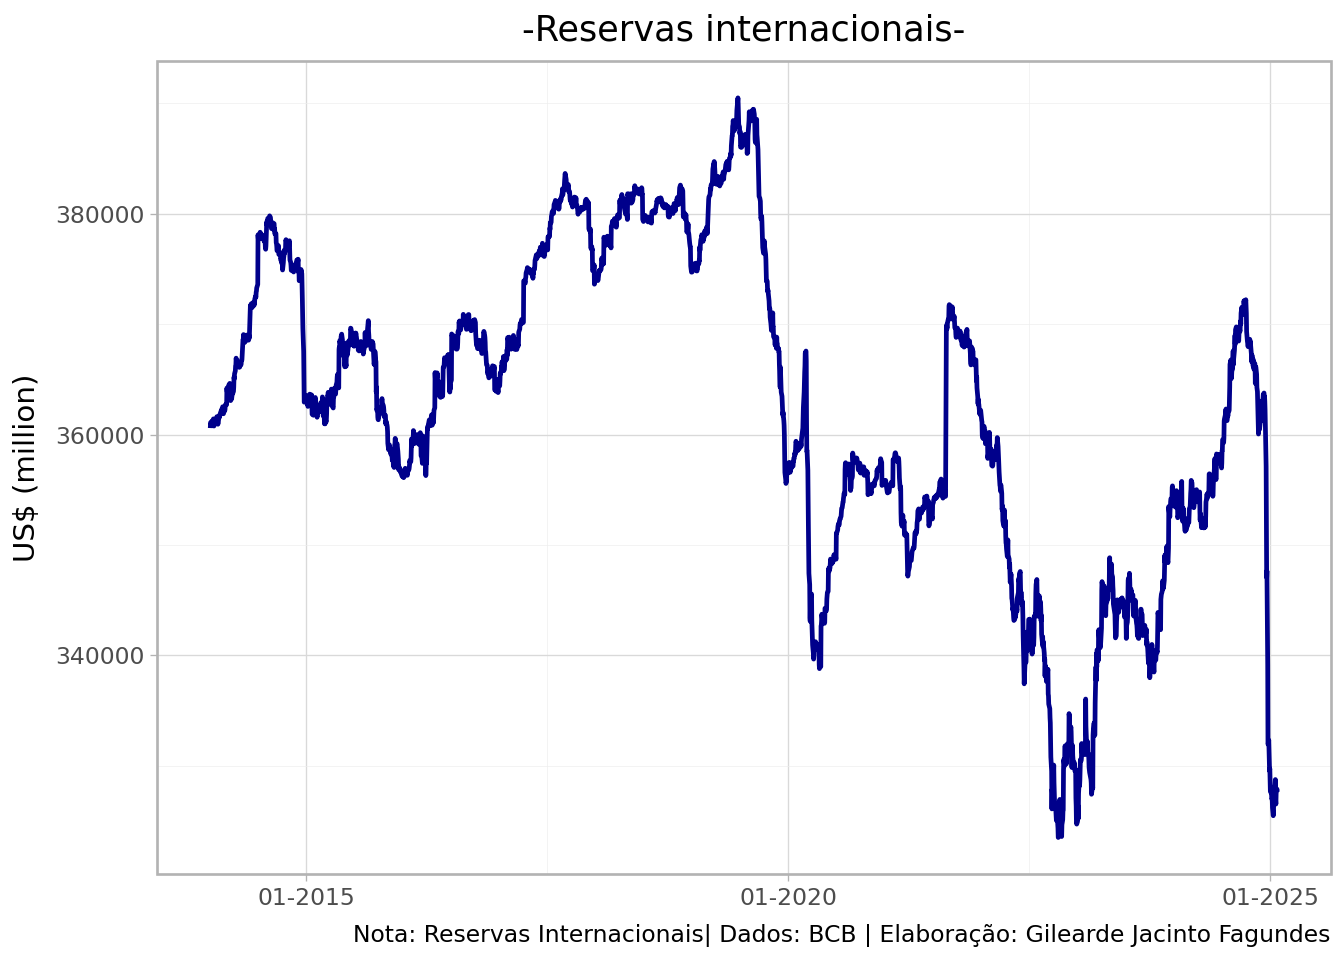
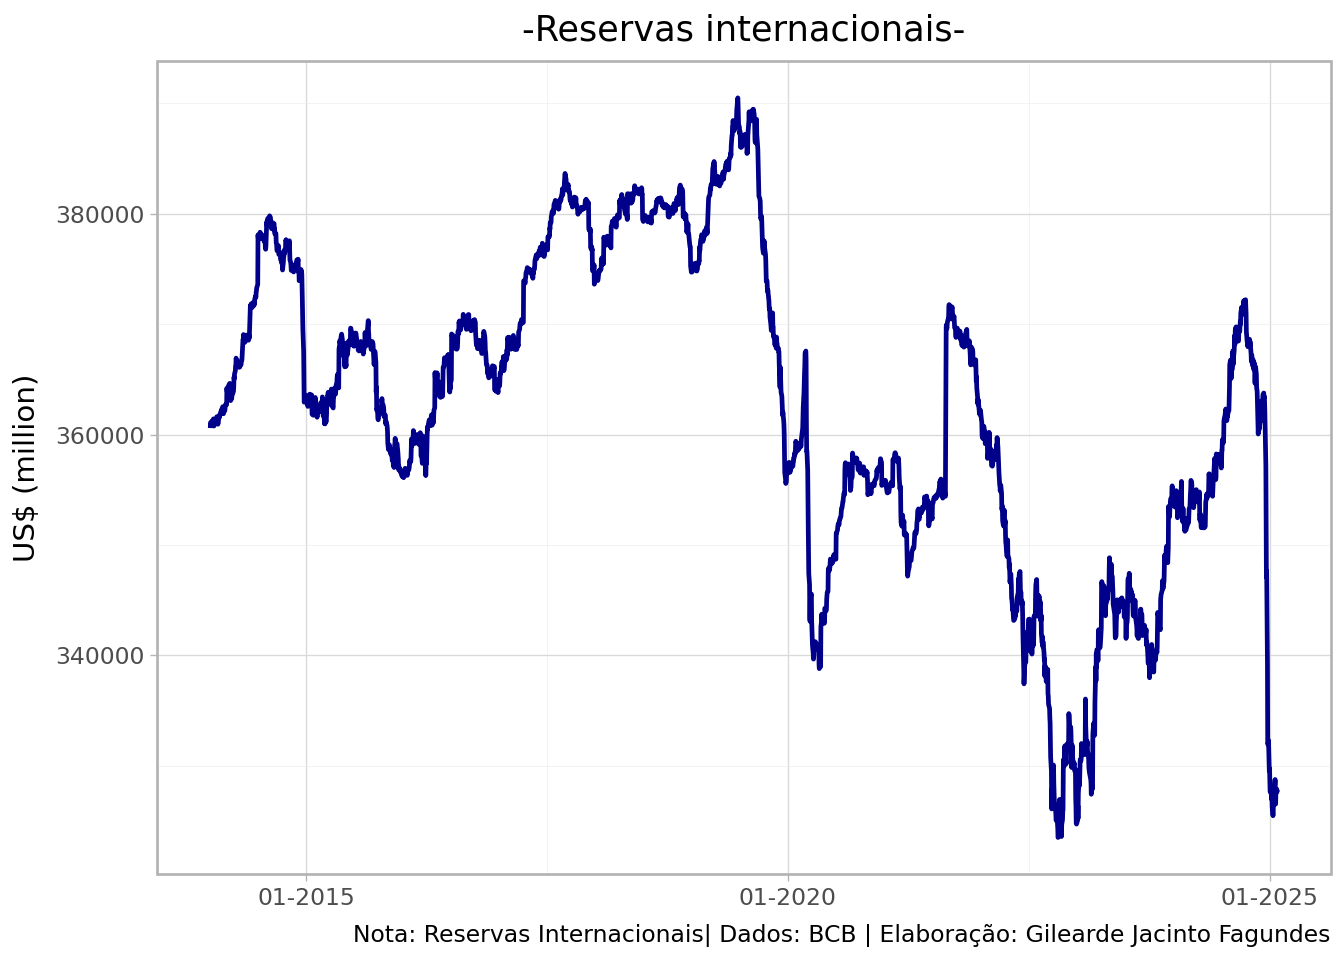
Atualização de relatorio e dashboard

diff --git a/relatorio/relatorio.html b/relatorio/relatorio.html
@@ -107,14 +107,14 @@ pre > code.sourceCode > span > a:first-child::before { text-decoration: underlin
 
 
 <p>Dados coletados da API do Banco Central do Brasil.</p>
-<div id="165f3ddc" class="cell" data-execution_count="1">
+<div id="793dce3b" class="cell" data-execution_count="1">
 <div class="sourceCode cell-code" id="cb1"><pre class="sourceCode python code-with-copy"><code class="sourceCode python"><span id="cb1-1"><a href="#cb1-1" aria-hidden="true" tabindex="-1"></a><span class="co"># Import Librarys</span></span>
 <span id="cb1-2"><a href="#cb1-2" aria-hidden="true" tabindex="-1"></a><span class="im">from</span> bcb <span class="im">import</span> sgs</span>
 <span id="cb1-3"><a href="#cb1-3" aria-hidden="true" tabindex="-1"></a><span class="im">import</span> pandas <span class="im">as</span> pd</span>
 <span id="cb1-4"><a href="#cb1-4" aria-hidden="true" tabindex="-1"></a><span class="im">import</span> plotnine <span class="im">as</span> p9</span></code><button title="Copy to Clipboard" class="code-copy-button"><i class="bi"></i></button></pre></div>
 </div>
 <p>Utilização da library SGS/BCB:</p>
-<div id="10ed5bcb" class="cell" data-execution_count="2">
+<div id="eb3e2ee4" class="cell" data-execution_count="2">
 <div class="sourceCode cell-code" id="cb2"><pre class="sourceCode python code-with-copy"><code class="sourceCode python"><span id="cb2-1"><a href="#cb2-1" aria-hidden="true" tabindex="-1"></a><span class="co"># Collect data</span></span>
 <span id="cb2-2"><a href="#cb2-2" aria-hidden="true" tabindex="-1"></a>dados <span class="op">=</span> sgs.get(</span>
 <span id="cb2-3"><a href="#cb2-3" aria-hidden="true" tabindex="-1"></a>    codes<span class="op">=</span>{<span class="st">"reserva"</span>: <span class="dv">13621</span>},</span>
@@ -123,7 +123,7 @@ pre > code.sourceCode > span > a:first-child::before { text-decoration: underlin
 <span id="cb2-6"><a href="#cb2-6" aria-hidden="true" tabindex="-1"></a>)</span></code><button title="Copy to Clipboard" class="code-copy-button"><i class="bi"></i></button></pre></div>
 </div>
 <p>Os dados brutos obtidos no SGS/BCB são exibidos abaixo:</p>
-<div id="1dadfe26" class="cell" data-execution_count="3">
+<div id="6cd74519" class="cell" data-execution_count="3">
 <div class="sourceCode cell-code" id="cb3"><pre class="sourceCode python code-with-copy"><code class="sourceCode python"><span id="cb3-1"><a href="#cb3-1" aria-hidden="true" tabindex="-1"></a>dados</span></code><button title="Copy to Clipboard" class="code-copy-button"><i class="bi"></i></button></pre></div>
 <div class="cell-output cell-output-display" data-execution_count="3">
 <div>
@@ -166,37 +166,37 @@ pre > code.sourceCode > span > a:first-child::before { text-decoration: underlin
 <td>...</td>
 </tr>
 <tr class="odd">
-<td data-quarto-table-cell-role="th">2025-01-22</td>
-<td>326829</td>
-</tr>
-<tr class="even">
 <td data-quarto-table-cell-role="th">2025-01-23</td>
 <td>326517</td>
 </tr>
-<tr class="odd">
+<tr class="even">
 <td data-quarto-table-cell-role="th">2025-01-24</td>
 <td>327502</td>
 </tr>
-<tr class="even">
+<tr class="odd">
 <td data-quarto-table-cell-role="th">2025-01-27</td>
 <td>327877</td>
 </tr>
-<tr class="odd">
+<tr class="even">
 <td data-quarto-table-cell-role="th">2025-01-28</td>
 <td>327613</td>
+</tr>
+<tr class="odd">
+<td data-quarto-table-cell-role="th">2025-01-29</td>
+<td>327823</td>
 </tr>
 </tbody>
 </table>
 
-<p>2780 rows × 1 columns</p>
+<p>2781 rows × 1 columns</p>
 </div>
 </div>
 </div>
 <p>Valores e datas da maxima e minima das Reservas Internacionais Totais:</p>
-<div id="b2f8627a" class="cell" data-execution_count="4">
+<div id="76875dfc" class="cell" data-execution_count="4">
 <div class="sourceCode cell-code" id="cb4"><pre class="sourceCode python code-with-copy"><code class="sourceCode python"><span id="cb4-1"><a href="#cb4-1" aria-hidden="true" tabindex="-1"></a>dados <span class="op">=</span> dados.assign(data <span class="op">=</span> dados.index)</span></code><button title="Copy to Clipboard" class="code-copy-button"><i class="bi"></i></button></pre></div>
 </div>
-<div id="b29c0b29" class="cell" data-execution_count="5">
+<div id="d3ad183f" class="cell" data-execution_count="5">
 <div class="sourceCode cell-code" id="cb5"><pre class="sourceCode python code-with-copy"><code class="sourceCode python"><span id="cb5-1"><a href="#cb5-1" aria-hidden="true" tabindex="-1"></a>menor_valor <span class="op">=</span> dados.reserva.<span class="bu">min</span>() </span>
 <span id="cb5-2"><a href="#cb5-2" aria-hidden="true" tabindex="-1"></a>data_menor_valor <span class="op">=</span> dados.reserva.idxmin().date()</span>
 <span id="cb5-3"><a href="#cb5-3" aria-hidden="true" tabindex="-1"></a>maior_valor<span class="op">=</span>dados.reserva.<span class="bu">max</span>()</span>
@@ -208,7 +208,7 @@ pre > code.sourceCode > span > a:first-child::before { text-decoration: underlin
 </div>
 </div>
 <p>Gráfico de linha com a série das Reservas Internacionais Totais:</p>
-<div id="0ecffee0" class="cell" data-execution_count="6">
+<div id="3aa9196b" class="cell" data-execution_count="6">
 <div class="sourceCode cell-code" id="cb7"><pre class="sourceCode python code-with-copy"><code class="sourceCode python"><span id="cb7-1"><a href="#cb7-1" aria-hidden="true" tabindex="-1"></a><span class="co"># Line Graph</span></span>
 <span id="cb7-2"><a href="#cb7-2" aria-hidden="true" tabindex="-1"></a>chart<span class="op">=</span>p9.ggplot(data <span class="op">=</span> dados) <span class="op">+\</span></span>
 <span id="cb7-3"><a href="#cb7-3" aria-hidden="true" tabindex="-1"></a>  p9.aes(x <span class="op">=</span> <span class="st">"data"</span>, y <span class="op">=</span> <span class="st">"reserva"</span>) <span class="op">+\</span></span>
@@ -222,7 +222,7 @@ pre > code.sourceCode > span > a:first-child::before { text-decoration: underlin
 <span id="cb7-11"><a href="#cb7-11" aria-hidden="true" tabindex="-1"></a>    ) <span class="op">+\</span></span>
 <span id="cb7-12"><a href="#cb7-12" aria-hidden="true" tabindex="-1"></a>  p9.theme_light()</span></code><button title="Copy to Clipboard" class="code-copy-button"><i class="bi"></i></button></pre></div>
 </div>
-<div id="91ef8184" class="cell" data-execution_count="7">
+<div id="c706fd04" class="cell" data-execution_count="7">
 <div class="sourceCode cell-code" id="cb8"><pre class="sourceCode python code-with-copy"><code class="sourceCode python"><span id="cb8-1"><a href="#cb8-1" aria-hidden="true" tabindex="-1"></a>chart</span></code><button title="Copy to Clipboard" class="code-copy-button"><i class="bi"></i></button></pre></div>
 <div class="cell-output cell-output-display">
 <div>
